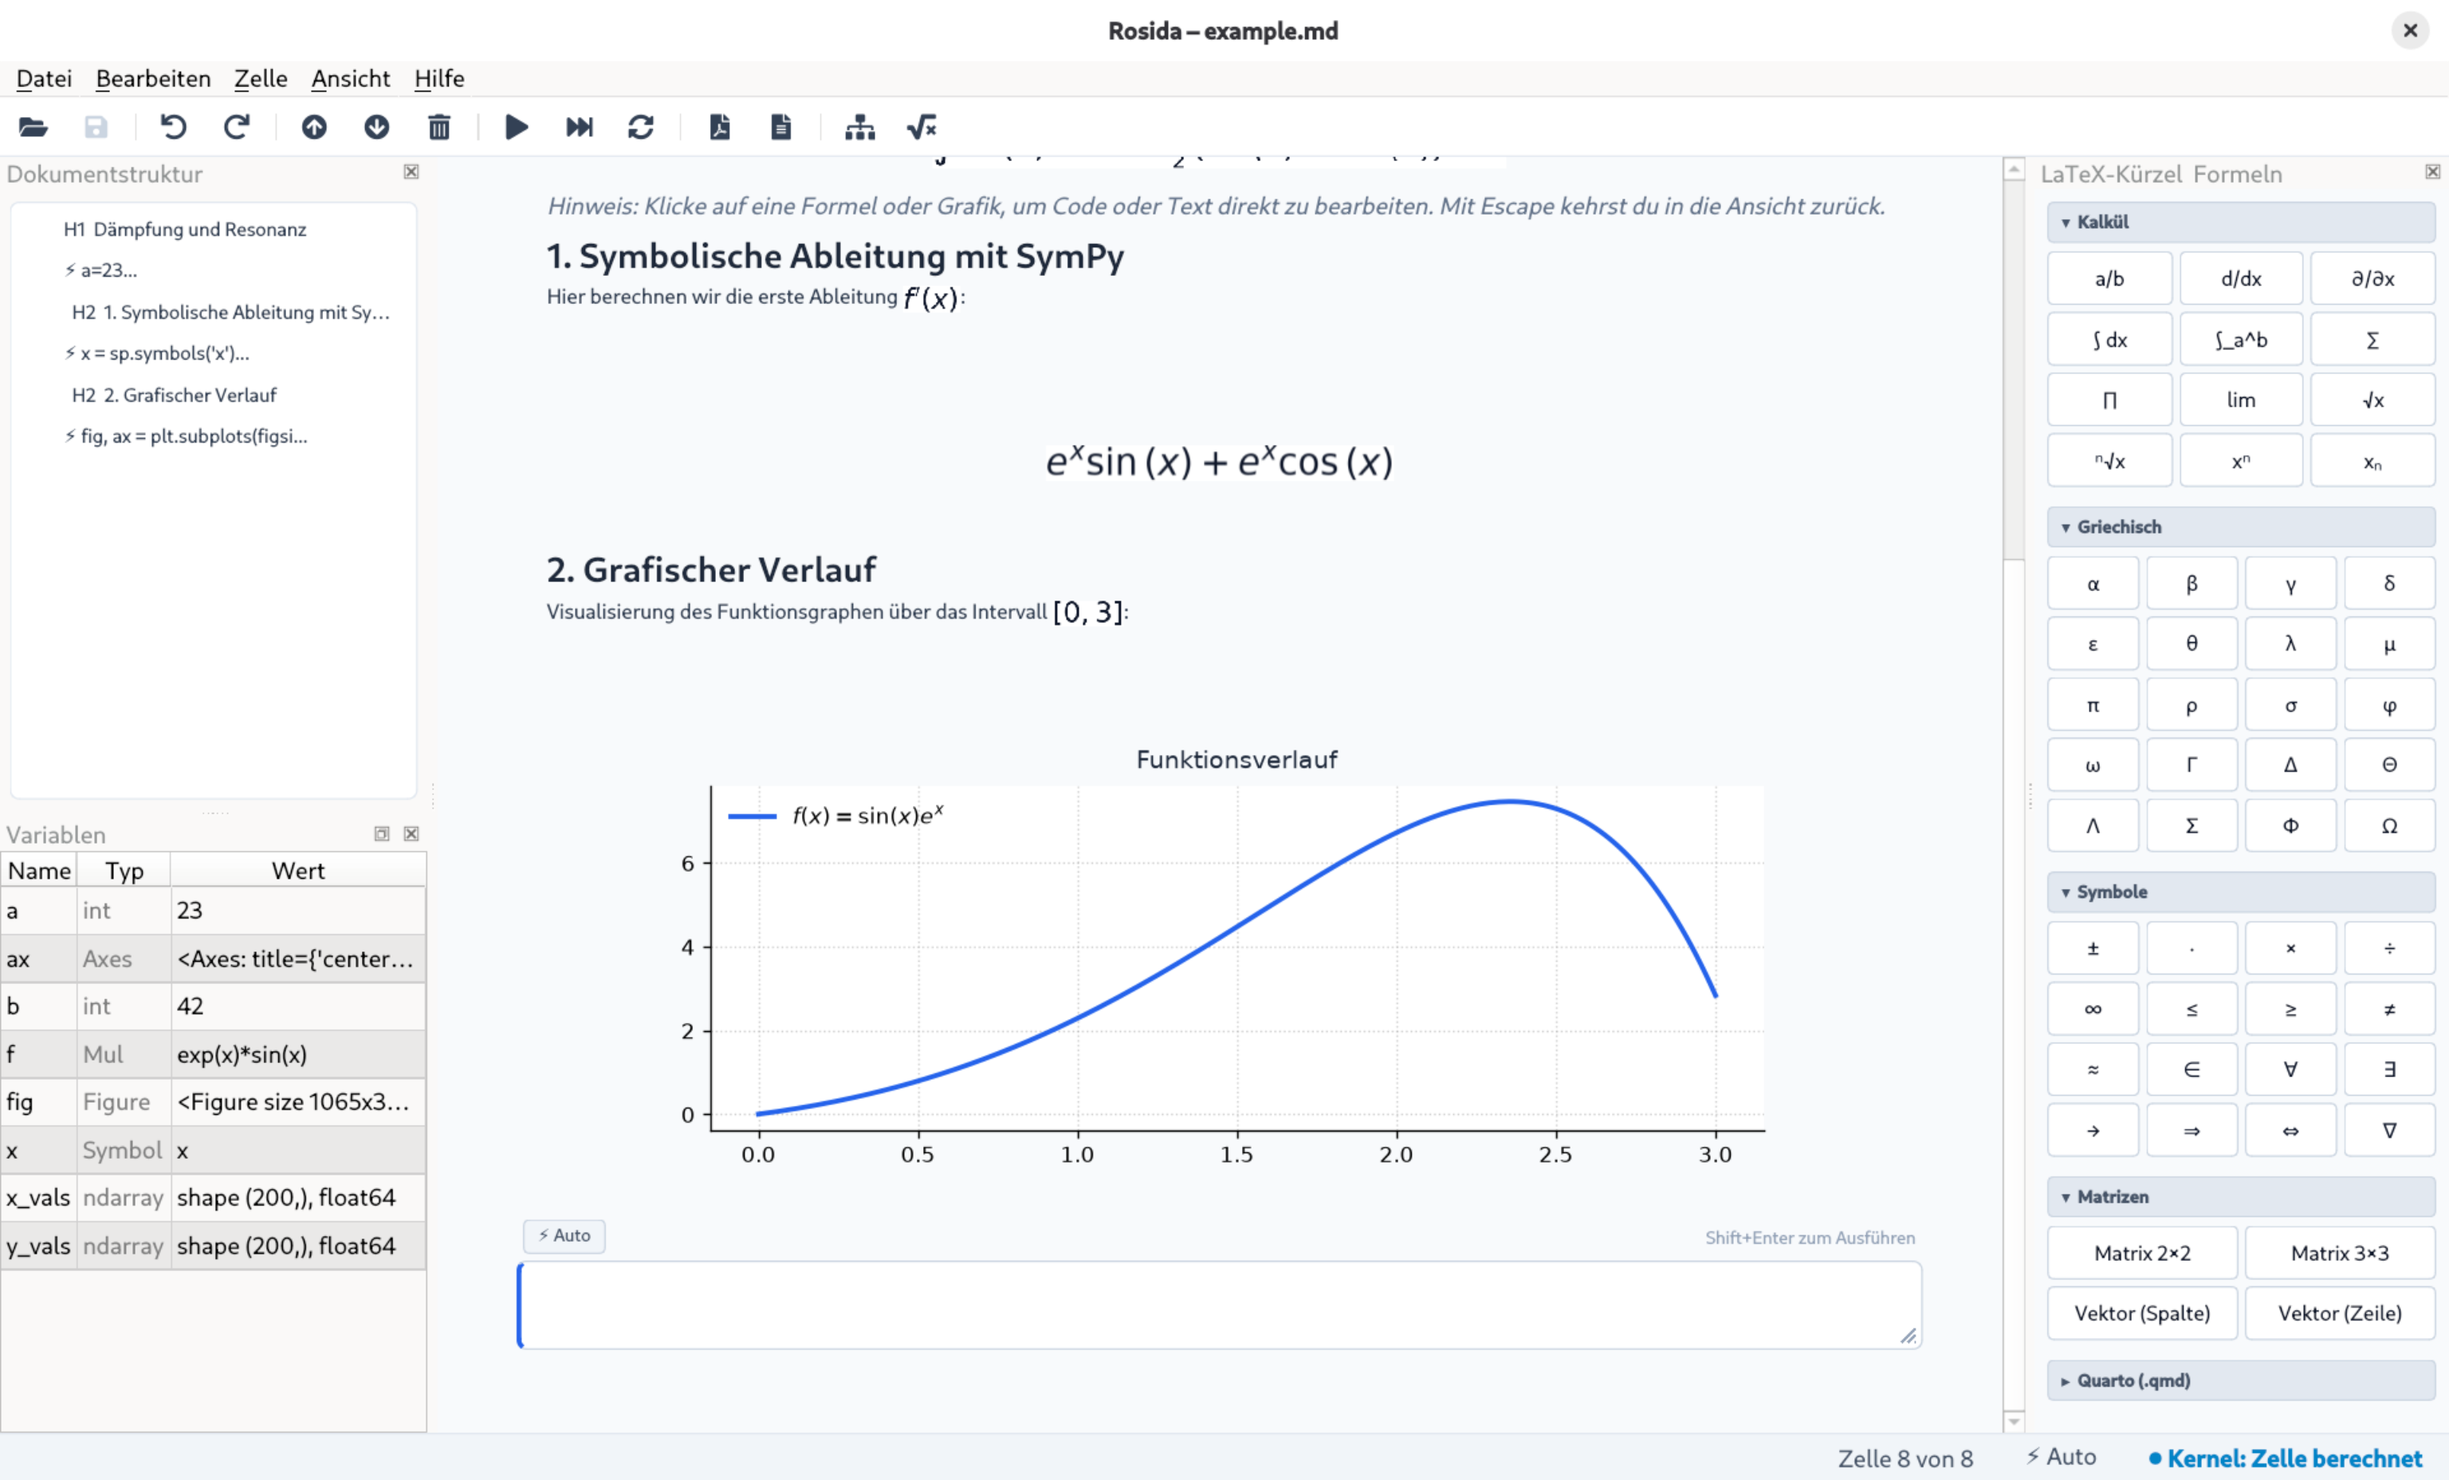
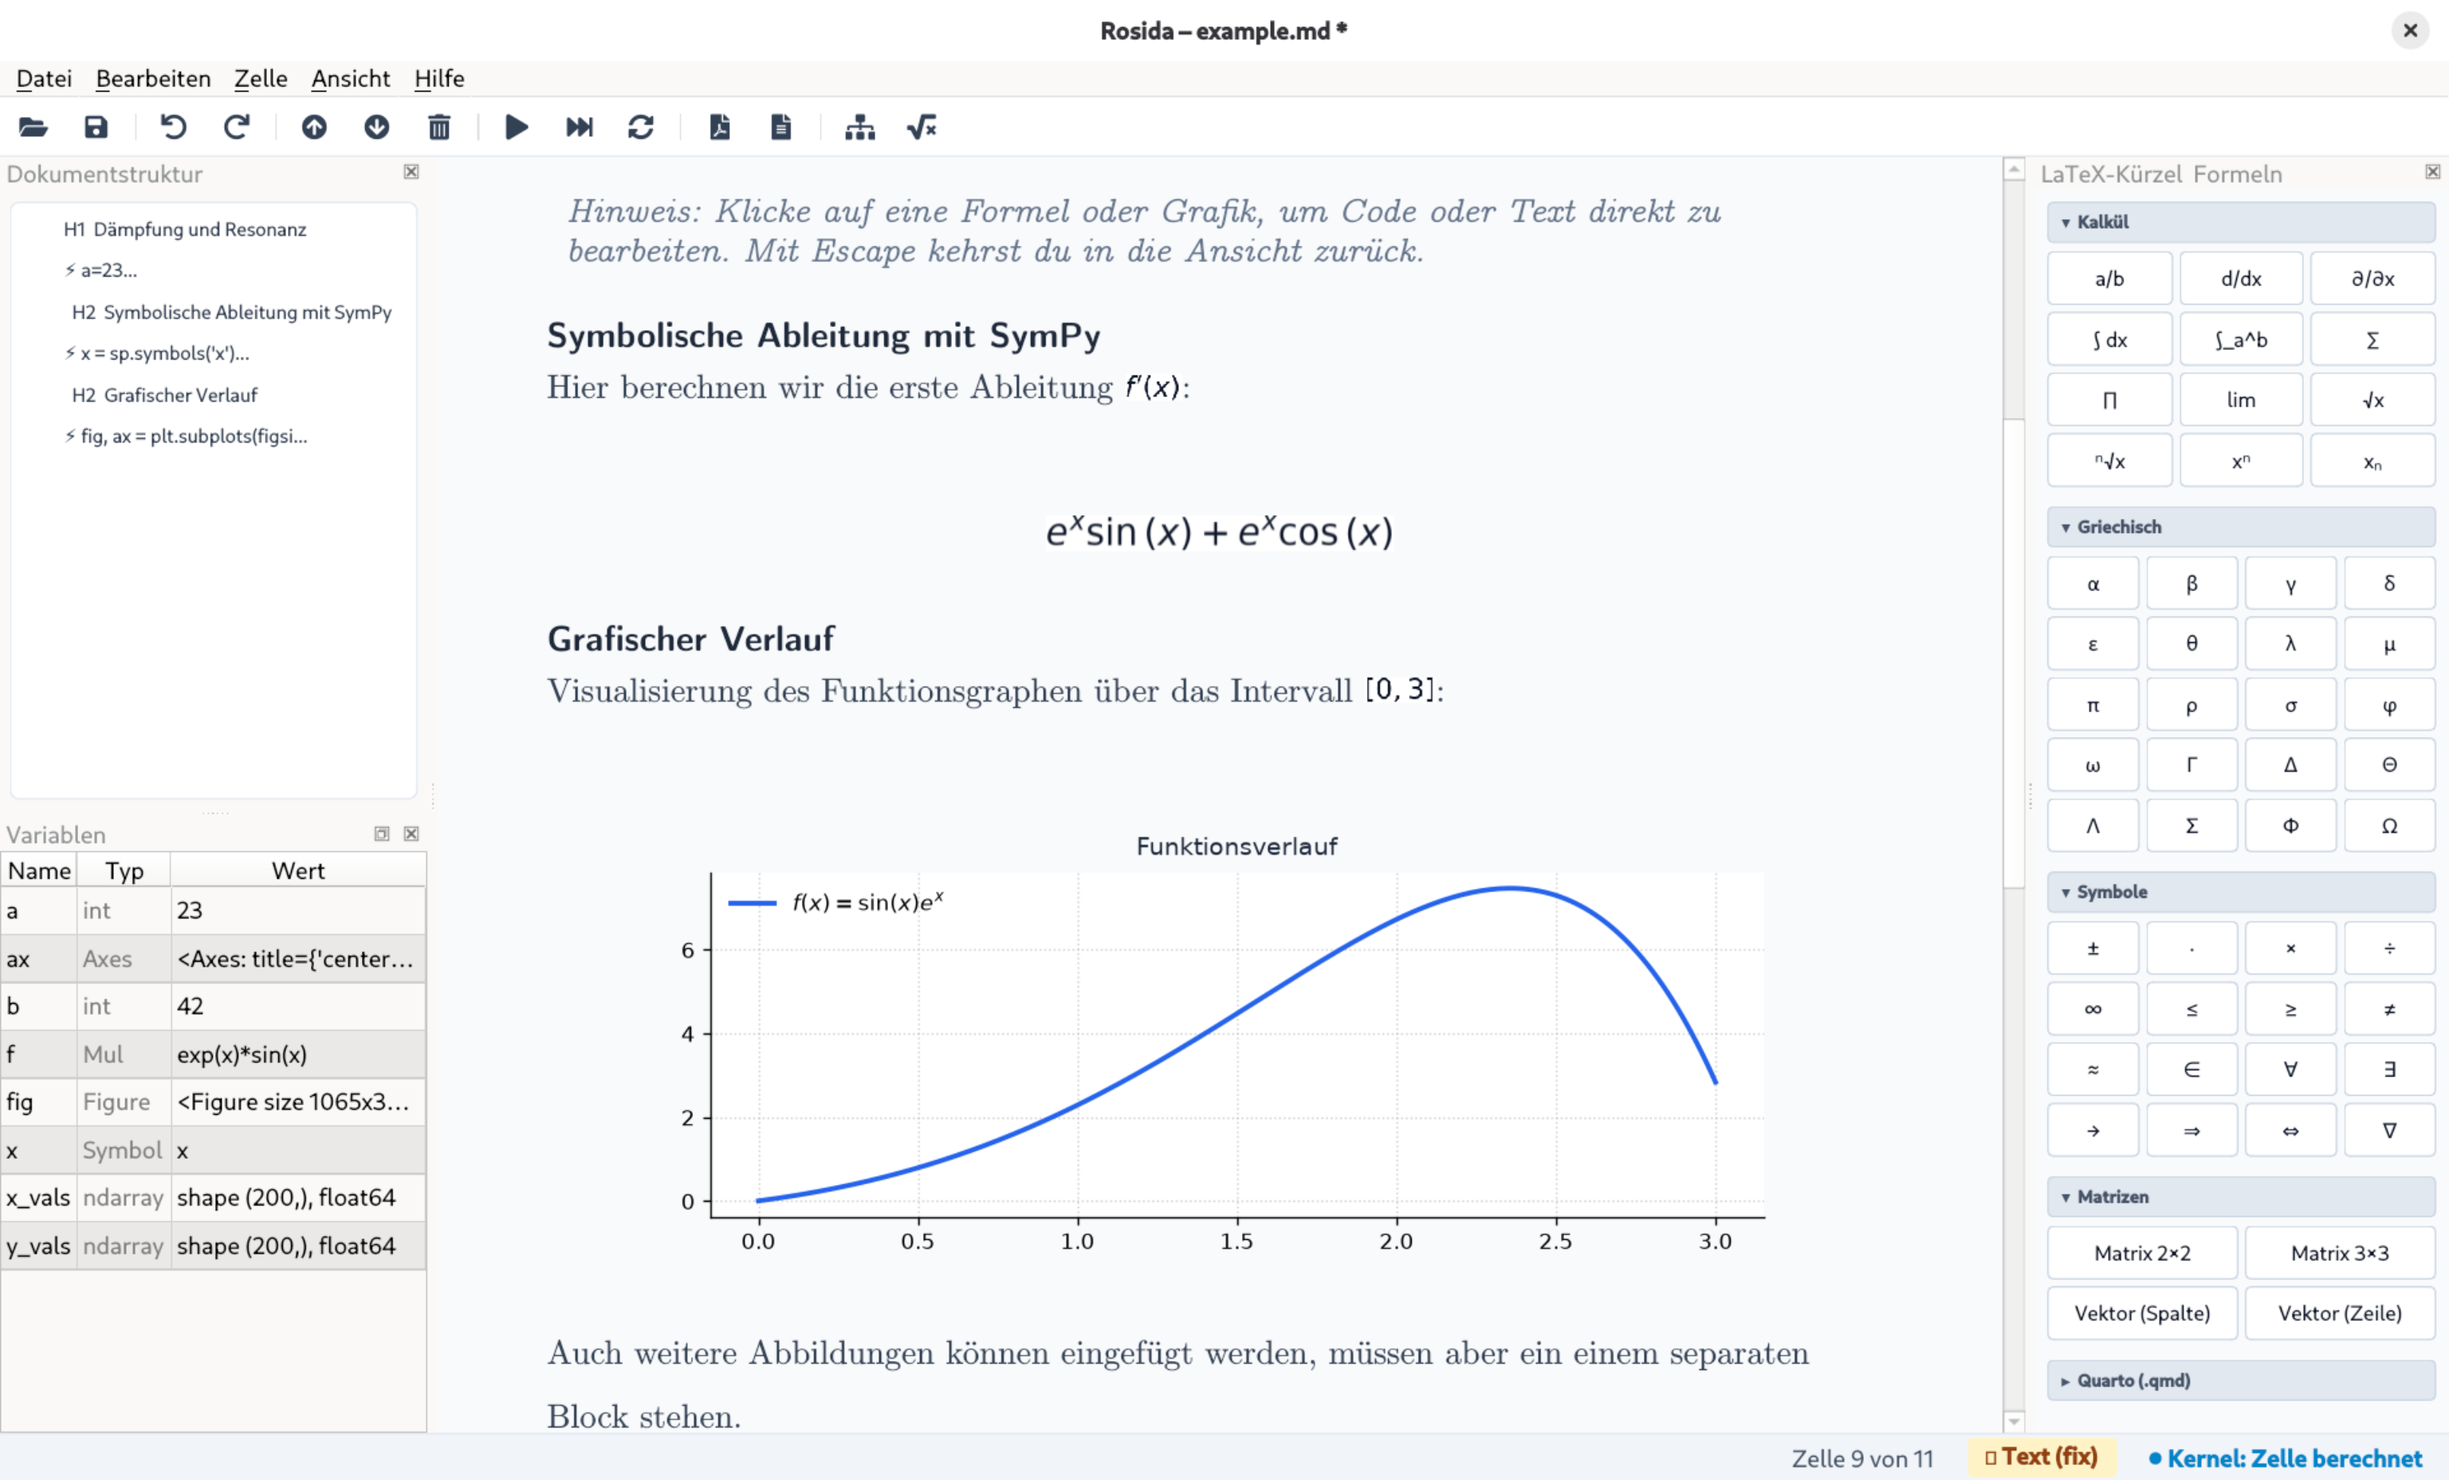
Added documentation

diff --git a/docs/adr/adr-012.md b/docs/adr/adr-012.md
@@ -1,0 +1,30 @@
+# ADR 0012: Visuelle Organisation von Literatur-Notizen (Denkbrett / Post-it UI)
+
+**Status:** Akzeptiert
+**Kontext:**
+Für die Strukturierung wissenschaftlicher Manuskripte und großer Buchprojekte reicht eine flache Listenansicht der Literatur-Notizen (Zettelkasten) oft nicht aus. Ein räumliches, visuelles Ordnen (analog zum "Denkbrett" in Papyrus Autor) unterstützt den kreativen Schreibprozess erheblich. Eine klassische Implementierung würde die Koordinaten der Post-its in einer zentralen, proprietären UI-Datenbank speichern. Das widerspricht jedoch Rosidas architektonischem Kernprinzip: Der Nutzer muss absolute Souveränität über seine Daten behalten (Plain-Text-Paradigma, kein Vendor-Lock-in).
+
+**Entscheidung:**
+Die visuelle Organisationsebene wird vollständig zustandslos implementiert, indem die UI-Metadaten in den bestehenden Markdown-Dateien serialisiert werden.
+
+* **UI-Komponenten:** Die Zeichenfläche wird über Qt's `QGraphicsView` und `QGraphicsScene` in einem eigenständigen Fenster realisiert. Notizen werden als interaktive, verschiebbare `QGraphicsItem`-Objekte (Kärtchen/Post-its) gerendert.
+* **Datenspeicherung:** Die räumlichen Koordinaten und visuellen Eigenschaften (z. B. Farbe) werden als Standard-Variablen im YAML-Frontmatter der jeweiligen Zettelkasten-Markdown-Datei gespeichert:
+```yaml
+---
+citekey: taleb2012
+title: Antifragile
+board_x: 450
+board_y: 120
+color: yellow
+---
+
+```
+
+
+* **Synchronisation:** Wird ein Kärtchen auf der Zeichenfläche verschoben, aktualisiert Rosida im Hintergrund (via abstrahiertem I/O-Handler) ausschließlich den YAML-Block der entsprechenden `.md`-Datei, ohne den Body-Text anzutasten.
+
+**Konsequenzen:**
+
+* **Positiv:** Antifragile Datenhaltung. Die Zettelkasten-Dateien bleiben völlig autark und können weiterhin nativ in Neovim, Obsidian oder über Shell-Skripte (`rg`, `fzf`) verarbeitet werden.
+* **Positiv:** Keine zusätzlichen Abhängigkeiten oder relationale Datenbanken für den UI-Zustand. Die Markdown-Datei ist die "Single Source of Truth".
+* **Negativ/Trade-off (I/O-Last):** Da jede Bewegung auf dem Board zu einem Datei-Schreibvorgang führt, muss zwingend ein *Debouncing* (z. B. via `QTimer`) implementiert werden. Es wird erst gespeichert, wenn das Kärtchen losgelassen wurde oder eine halbe Sekunde unbewegt bleibt, um unnötigen I/O-Overhead zu vermeiden.

diff --git a/docs/adr/adr-013.md b/docs/adr/adr-013.md
@@ -1,0 +1,21 @@
+# ADR 0013: KI-Integration via deterministischer Prompt-Zellen
+
+**Status:** Akzeptiert
+**Kontext:**
+Die Einbindung von Sprachmodellen (LLMs) und lokalen Klassifikatoren (z. B. das Jev-Modell zur Relevanzprüfung) fördert den kreativen und analytischen Schreibprozess enorm. Herkömmliche Editoren lösen dies meist über schwebende, transiente Chat-Fenster (Copilot-Ansatz). Das bricht jedoch mit Rosidas Kernprinzipien: flüchtige Chats sind nicht versionierbar, nicht im Text verankert und stören den SDI-Flow. Es wird ein Weg benötigt, KI-Interaktionen als reproduzierbaren Bestandteil des Plain-Text-Dokuments zu behandeln.
+
+**Entscheidung:**
+KI-Interaktionen werden als eigenständiger, ausführbarer Code-Block-Typ in das Markdown-Dokument integriert.
+
+1. **Syntax:** Es wird ein neuer Zell-Typ ````prompt` eingeführt.
+2. **Konfiguration:** Metadaten wie das Ziel-Modell oder der Kontext werden als Parameter im Block definiert (entweder als Quarto-ähnliche Kommentare `#| model: jev-classifier` oder YAML).
+3. **Ausführung:** Ein neuer `PromptExecutor` (parallel zum `PythonExecutor`) verarbeitet den Block bei `Ctrl+Enter`. Er liest den Prompt, sendet ihn an das konfigurierte Backend (lokal via API/Ollama oder extern) und wartet auf die Antwort.
+4. **Output:** Die Rückgabe der KI wird als statischer, bearbeitbarer Markdown-Text exakt unterhalb der Zelle in das Dokument injiziert (eingefrorener Zustand).
+5. **Quarto-Export:** Um Prompt-Blöcke im finalen PDF-Export zu verbergen, können Quarto-Optionen wie `#| echo: false` und `#| eval: false` genutzt werden.
+
+**Konsequenzen:**
+
+* **Positiv:** Prompts und Modellantworten werden persistent und reproduzierbar. Sie landen als reiner Text im Git-Repository.
+* **Positiv:** Zero UI-Bloat. Es wird kein separates Chat-Dock benötigt, der Text-Editor bleibt das universelle Interface.
+* **Positiv:** Hohe Modularität. Du kannst nahtlos zwischen einem lokalen Klassifikator (Jev) zur Qualitätskontrolle, lokaler Code-KI oder externen APIs wechseln, nur durch Änderung eines Parameters.
+* **Negativ/Trade-off:** Netzwerk-Calls oder lokale GPU-Inferenz haben Latenz. Der `PromptExecutor` muss zwingend asynchron (via `QThread` in Qt) laufen, damit die UI während der Generierung nicht einfriert.

diff --git a/docs/adr/adr-010.md b/docs/adr/adr-010.md
@@ -1,0 +1,19 @@
+# ADR 0010: Quarto als reiner Typesetter (Statischer Export)
+
+**Status:** Akzeptiert
+**Kontext:**
+Rosida verarbeitet und berechnet Code-Zellen interaktiv und hält den Session-State im lokalen Speicher. Für den hochwertigen Dokumenten-Export (PDF via Typst oder LaTeX) wird Quarto verwendet. Standardmäßig interpretiert Quarto Blöcke mit der Syntax ````{python}` als interaktive Zellen und startet eine eigene Jupyter-Engine, um den Code erneut auszuführen. Dies führt zu redundanten Berechnungen, zwingt Quarto in die Rolle einer Ausführungsumgebung und verlangsamt den finalen Rendering-Prozess enorm.
+
+**Entscheidung:**
+Die Zuständigkeiten werden strikt getrennt (Separation of Concerns): Rosida ist die exklusive Ausführungsumgebung, Quarto fungiert ausschließlich als nachgelagerter Setzer (Typesetter).
+
+1. **Syntax-Anpassung:** Im exportierten `.qmd`-Dokument werden Code-Zellen als statischer Text mit Highlighting formatiert (`python` anstelle von `{python}`).
+2. **Ergebnis-Einfrierung:** Rosida exportiert die bereits lokal berechneten Resultate (Konsolenausgaben, Tabellen, Matplotlib-Grafiken) direkt als statisches Markdown unter den jeweiligen Codeblock.
+3. **Globale Sperre:** Im YAML-Frontmatter des generierten Dokuments wird die Ausführung als zusätzliche Sicherheitsmaßnahme global deaktiviert (`execute: eval: false`).
+
+**Konsequenzen:**
+
+* **Positiv:** Mechanische Sympathie. Der Quarto-Build-Prozess wird pfeilschnell und deterministisch, da keine versteckten Python-Prozesse oder Kernel-Starts im Hintergrund ablaufen.
+* **Positiv:** Die exportierten `.qmd`-Dateien sind "eingefroren" und dokumentieren exakt den Zustand zum Zeitpunkt des Exports (hohe Reproduzierbarkeit für die Wissenschaft).
+* **Positiv:** Die Architektur bleibt simpel. Es müssen keine komplexen Jupyter-State-Synchronisationen zwischen Rosida und Quarto gebaut werden.
+* **Negativ/Trade-off:** Das erstellte `.qmd`-Dokument ist in anderen Umgebungen (wie Positron oder Jupyter) nicht mehr als "Live-Notebook" nutzbar. Da Rosida aber die Single Source of Truth für die Interaktion ist, ist dies ein explizit gewünschtes Verhalten.

diff --git a/docs/adr/adr-009.md b/docs/adr/adr-009.md
@@ -1,0 +1,20 @@
+# ADR 0009: Zotero-Integration über dateibasierte Bibliografie (.bib)
+
+**Status:** Akzeptiert
+**Kontext:**
+Für wissenschaftliche Arbeiten und Manuskripte benötigt Rosida eine reibungslose Literaturverwaltung. Da der finale Export über Quarto abgewickelt wird, ist die native Pandoc-Unterstützung für Bibliografien ohnehin gesetzt. Eine direkte, harte Kopplung an Zoteros interne SQLite-Datenbank oder Web-API würde die Architektur unnötig verkomplizieren, Abhängigkeiten schaffen und die auf einfachen Textdateien basierende Autarkie (SDI-Prinzip) des Werkzeugs untergraben.
+
+**Entscheidung:**
+Die Integration von Literaturquellen wird strikt dateibasiert und dezentral über Standardformate gelöst.
+
+* **Datenhaltung:** Eine `.bib`-Datei (BibTeX) im jeweiligen Projektverzeichnis (neben der `.qmd`-Datei) dient als einzige Datenquelle.
+* **UI-Komponente:** Ein neues `QDockWidget` ("Literatur") überwacht und parst diese `.bib`-Datei.
+* **Darstellung:** Das Dock verwendet eine Listen- oder Tabellenansicht (`QTreeWidget` oder `QTableView`) mit den Spalten: *Kürzel (Citekey)*, *Autor* und *Titel*.
+* **Detailansicht:** Ein Tooltip (Mouse-Hover) über einem Eintrag zeigt den vollständigen, ungekürzten Titel sowie ggf. das Jahr an.
+* **Interaktion:** Ein Doppelklick auf einen Eintrag fügt die formatierte Referenz (z. B. `[@citekey]`) exakt an der aktuellen Cursorposition des aktiven Editors ein.
+
+**Konsequenzen:**
+
+* **Positiv:** Maximale Robustheit. Rosida bleibt vollständig entkoppelt von Zotero. Das Parsen einer Textdatei ist rasend schnell und fehlerunanfällig.
+* **Positiv:** Perfekte Quarto-Synergie. Die `.bib`-Datei kann direkt im YAML-Header des Dokuments (`bibliography: referenzen.bib`) für den finalen Build verwendet werden.
+* **Voraussetzung:** Der Workflow erfordert, dass die `.bib`-Datei im Projektordner aktuell gehalten wird (idealerweise durch den "Auto-Export" des Better BibTeX Plugins in Zotero).
